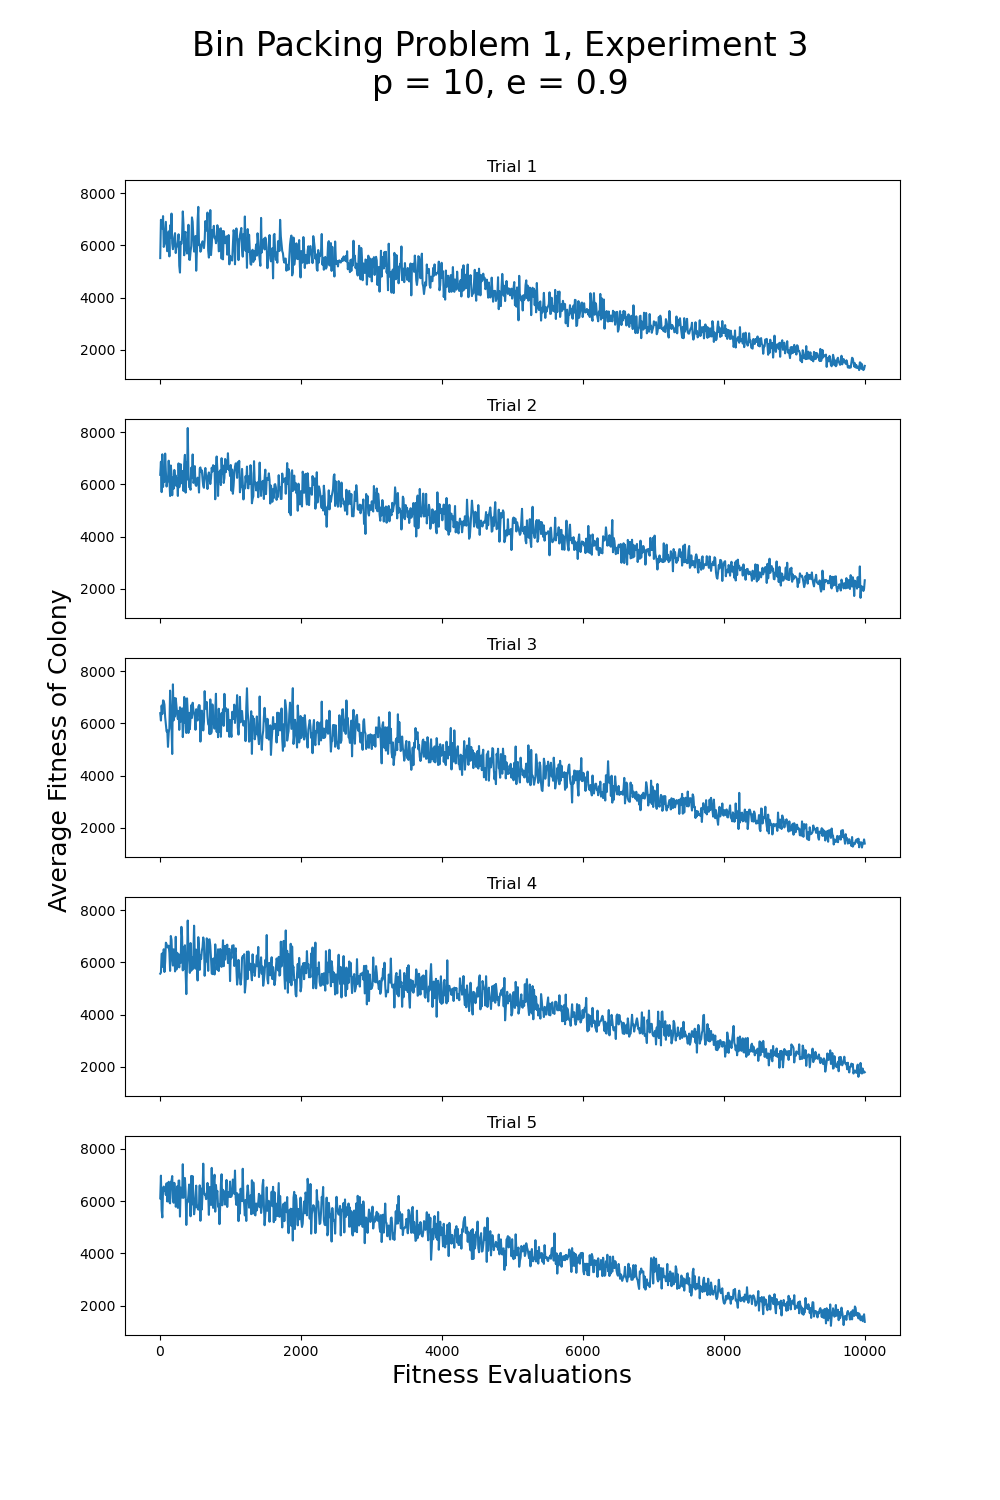
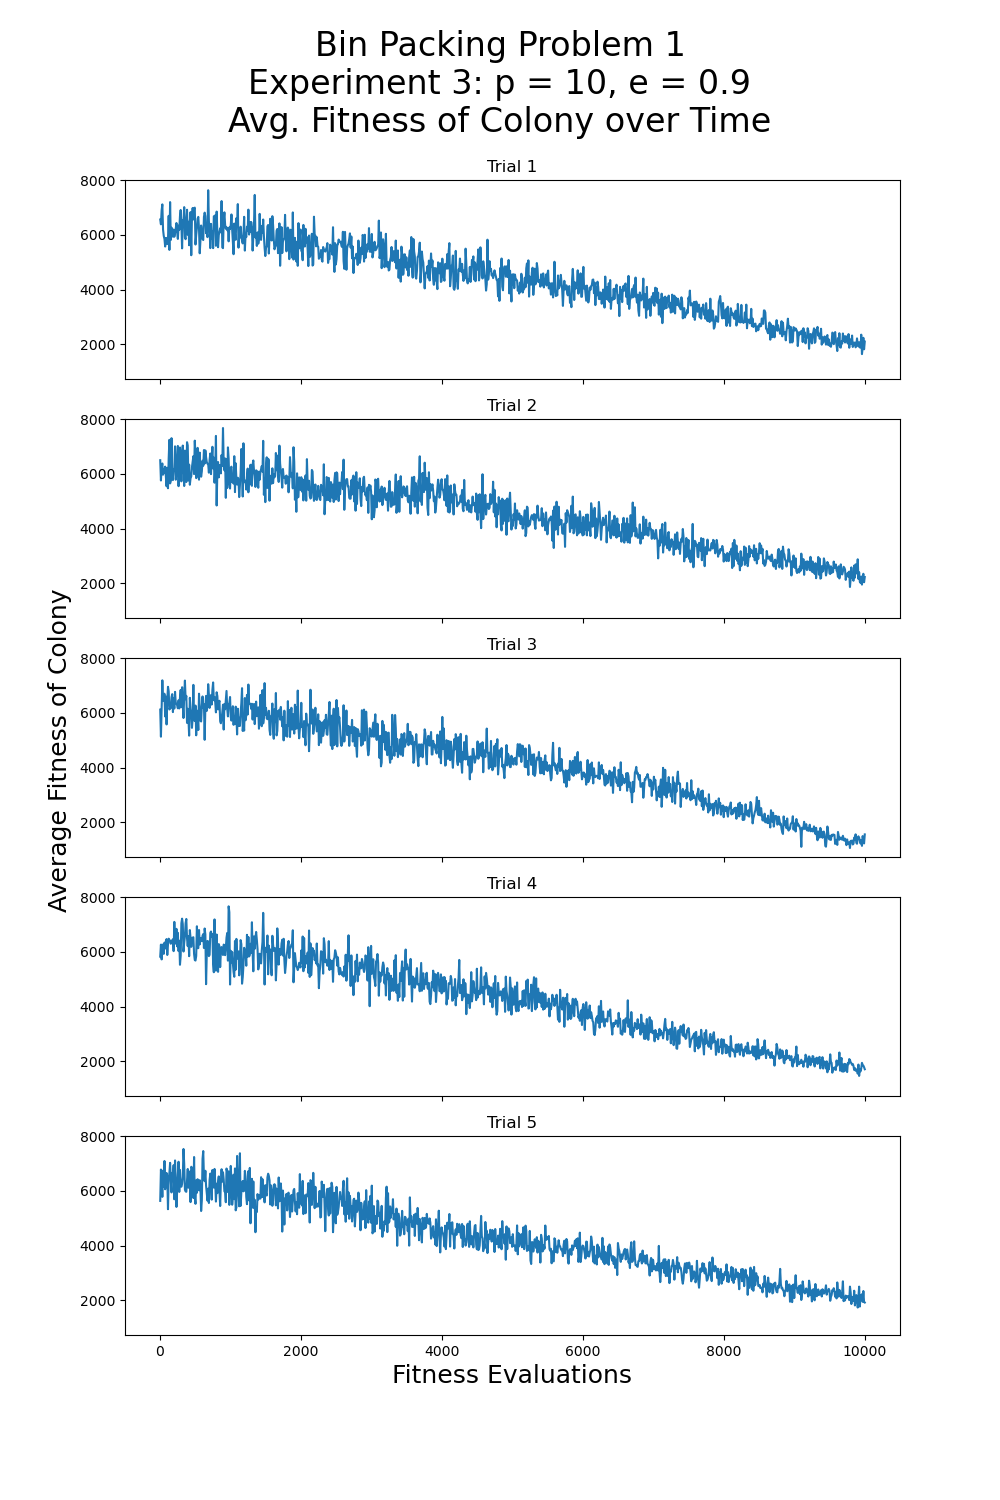
Stacked bar chart

diff --git a/result.py b/result.py
@@ -2,6 +2,7 @@ import numpy as np
 import statistics
 import csv
 import matplotlib.pyplot as plt
+from random import random
 
 class Trial:
     """
@@ -55,11 +56,19 @@ class Experiment:
         trial_fitnesses = [trial.best_fitness for trial in self.trials]
         best_fitness = min(trial_fitnesses)
         avg_fitness = sum(trial_fitnesses) / len(trial_fitnesses)
-        stdev_fitness = statistics.stdev(trial_fitnesses)
+        try:
+            stdev_fitness = statistics.stdev(trial_fitnesses)
+        except:
+            stdev_fitness = 0
 
         # Write values to a csv file.
         with open(f'Results/bpp_{self.bpp_id}/experiment_{self.experiment_num}/results.csv', 'w', newline='') as f:
             writer = csv.writer(f, delimiter=',')
+            writer.writerow(['trial_fitness', trial_fitnesses[0],
+                                              trial_fitnesses[1],
+                                              trial_fitnesses[2],
+                                              trial_fitnesses[3],
+                                              trial_fitnesses[4]])
             writer.writerow(['best_fitness', best_fitness])
             writer.writerow(['avg_fitness', avg_fitness])
             writer.writerow(['stdev_fitness', stdev_fitness])
@@ -71,7 +80,7 @@ class Experiment:
         """
 
         fig, axs = plt.subplots(len(self.trials), sharex=True, sharey=True, figsize=(10, 15))
-        fig.suptitle(f'Bin Packing Problem {self.bpp_id}, Experiment {self.experiment_num}\np = {self.p}, e = {self.e}', fontsize=24)
+        fig.suptitle(f'Bin Packing Problem {self.bpp_id}\nExperiment {self.experiment_num}: p = {self.p}, e = {self.e}\nAvg. Fitness of Colony over Time', fontsize=24)
         plt.xlabel('Fitness Evaluations', fontsize=18)
         fig.text(0.06, 0.5, 'Average Fitness of Colony', ha='center', va='center', rotation='vertical', fontsize=18)
 
@@ -82,4 +91,39 @@ class Experiment:
             y = [coord[1] for coord in trial.avg_fitness]
             axs[trial.trial_num].plot(x, y)
 
+        # Save plot as an image file.
         plt.savefig(f'Results/bpp_{self.bpp_id}/experiment_{self.experiment_num}/graph.png')
+        plt.clf()
+
+    def display_solution(self, b, num_items):
+        """Displays a bar chart of bin weights to visualise the solution of each experiment."""
+
+        # Lists of all trial fitnesses and respective paths for this experiment.
+        trial_fitnesses = [trial.best_fitness for trial in self.trials]
+        trial_paths = [trial.best_path for trial in self.trials]
+
+        # The best path and fitness for this experiment.
+        best_trial_index = trial_fitnesses.index(min(trial_fitnesses))
+        best_fitness = trial_fitnesses[best_trial_index]
+        best_path = trial_paths[best_trial_index]
+
+        # 2D list for the stacked bar chart.
+        bins = [np.array([0] * b) for _ in range(num_items)]
+        bin_labels = list(range(1, b+1))
+
+        # Add each item in the path to the correct bin.
+        for i, edge in enumerate(best_path[0:-1]):
+            bins[i][edge.destination.bin] = edge.destination.item
+
+        # Plot each a bar for each bin.
+        total = [0] * b
+        for item in bins:
+            plt.bar(bin_labels, item, bottom=total, color=(random(), random(), random()))
+            total += item
+
+        # Draw plot labels and save as an image file.
+        plt.xlabel('Bin', fontsize=18)
+        plt.ylabel('Total Weight of Items within Bin (kg)', fontsize=18)
+        plt.title(f'Bin Packing Problem {self.bpp_id}\nExperiment {self.experiment_num}: p = {self.p}, e = {self.e}\nSolution with Fitness: {best_fitness}', fontsize=24)
+        plt.savefig(f'Results/bpp_{self.bpp_id}/experiment_{self.experiment_num}/solution.png')
+        plt.clf()

diff --git a/Bpp.py b/Bpp.py
@@ -29,7 +29,7 @@ class Bpp:
         self.p = p
         self.e = e
         self.fe = fe
-        self.results = None
+        self.results = []
 
     def run_experiment(self, experiment_num, p, e):
         """Runs a single experiment within a bin packing problem."""
@@ -61,6 +61,7 @@ class Bpp:
         # Calculate results and plot data.
         experiment.calc_result()
         experiment.plot_result()
+        experiment.display_solution(self.b, len(self.items))
 
         return experiment
 

diff --git a/main.py b/main.py
@@ -35,7 +35,7 @@ if __name__ == '__main__':
         experiment_num = 1
         for p in bpp.p:
             for e in bpp.e:
-                bpp.results = bpp.run_experiment(experiment_num, p, e)
+                bpp.results.append(bpp.run_experiment(experiment_num, p, e))
                 experiment_num += 1
 
     #bpp3.run_experiment(bpp3.p, bpp3.e)
